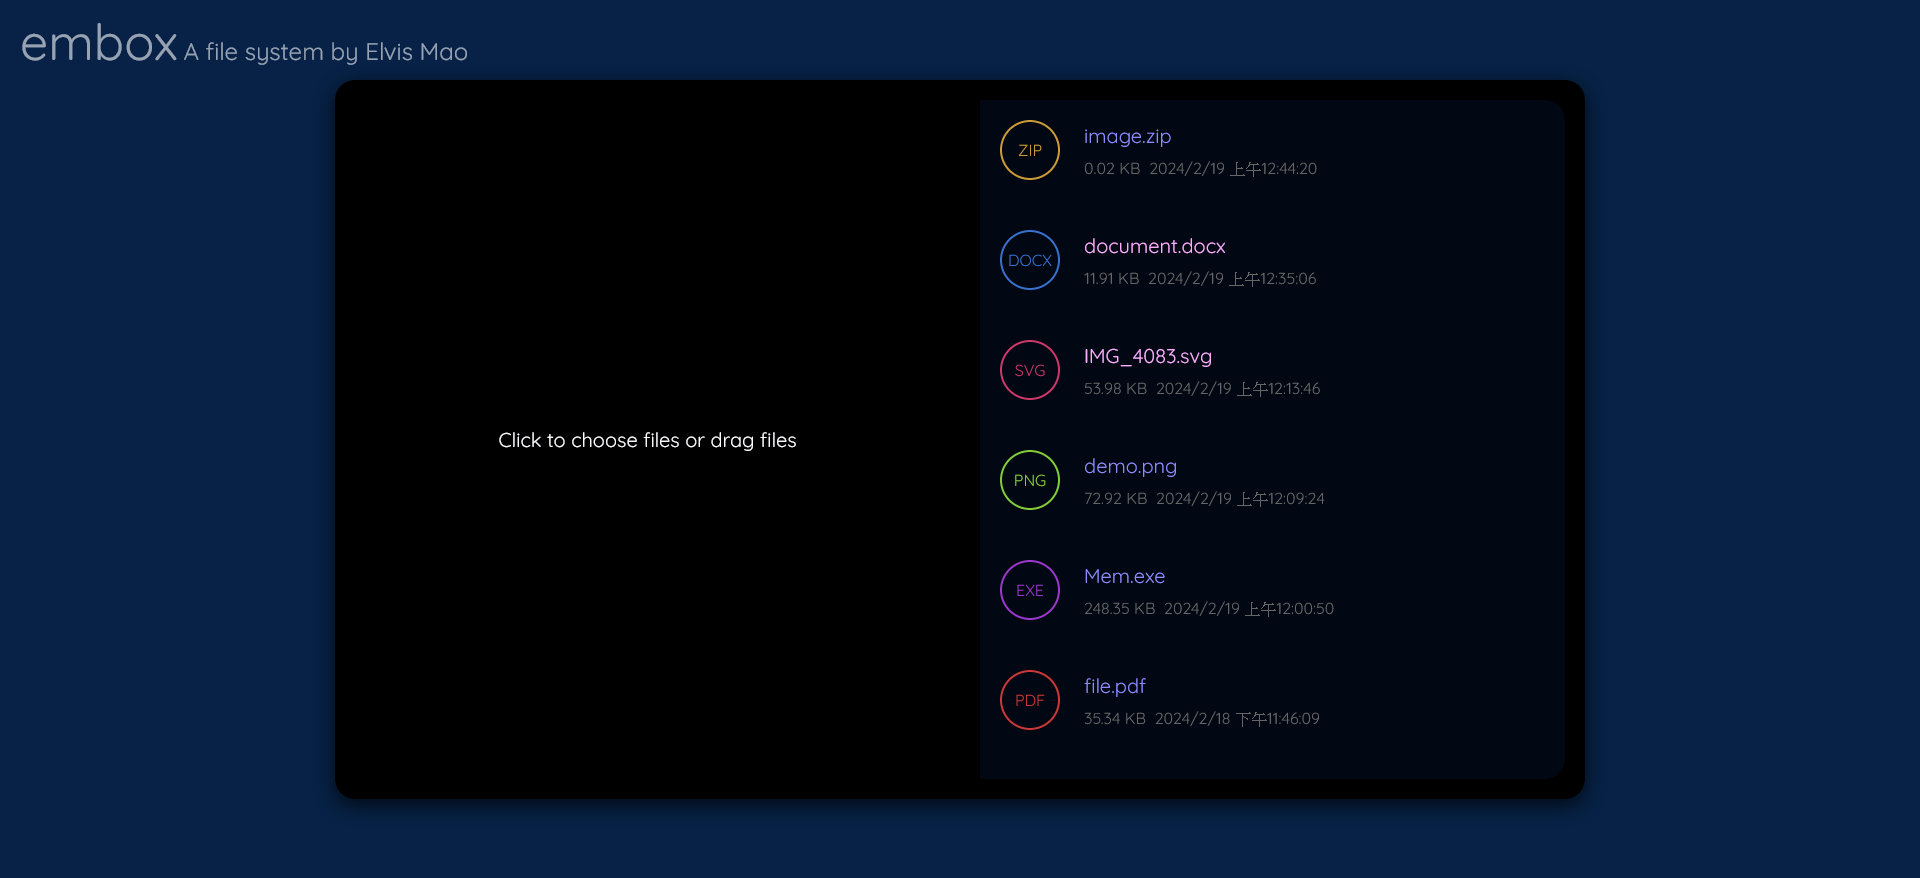
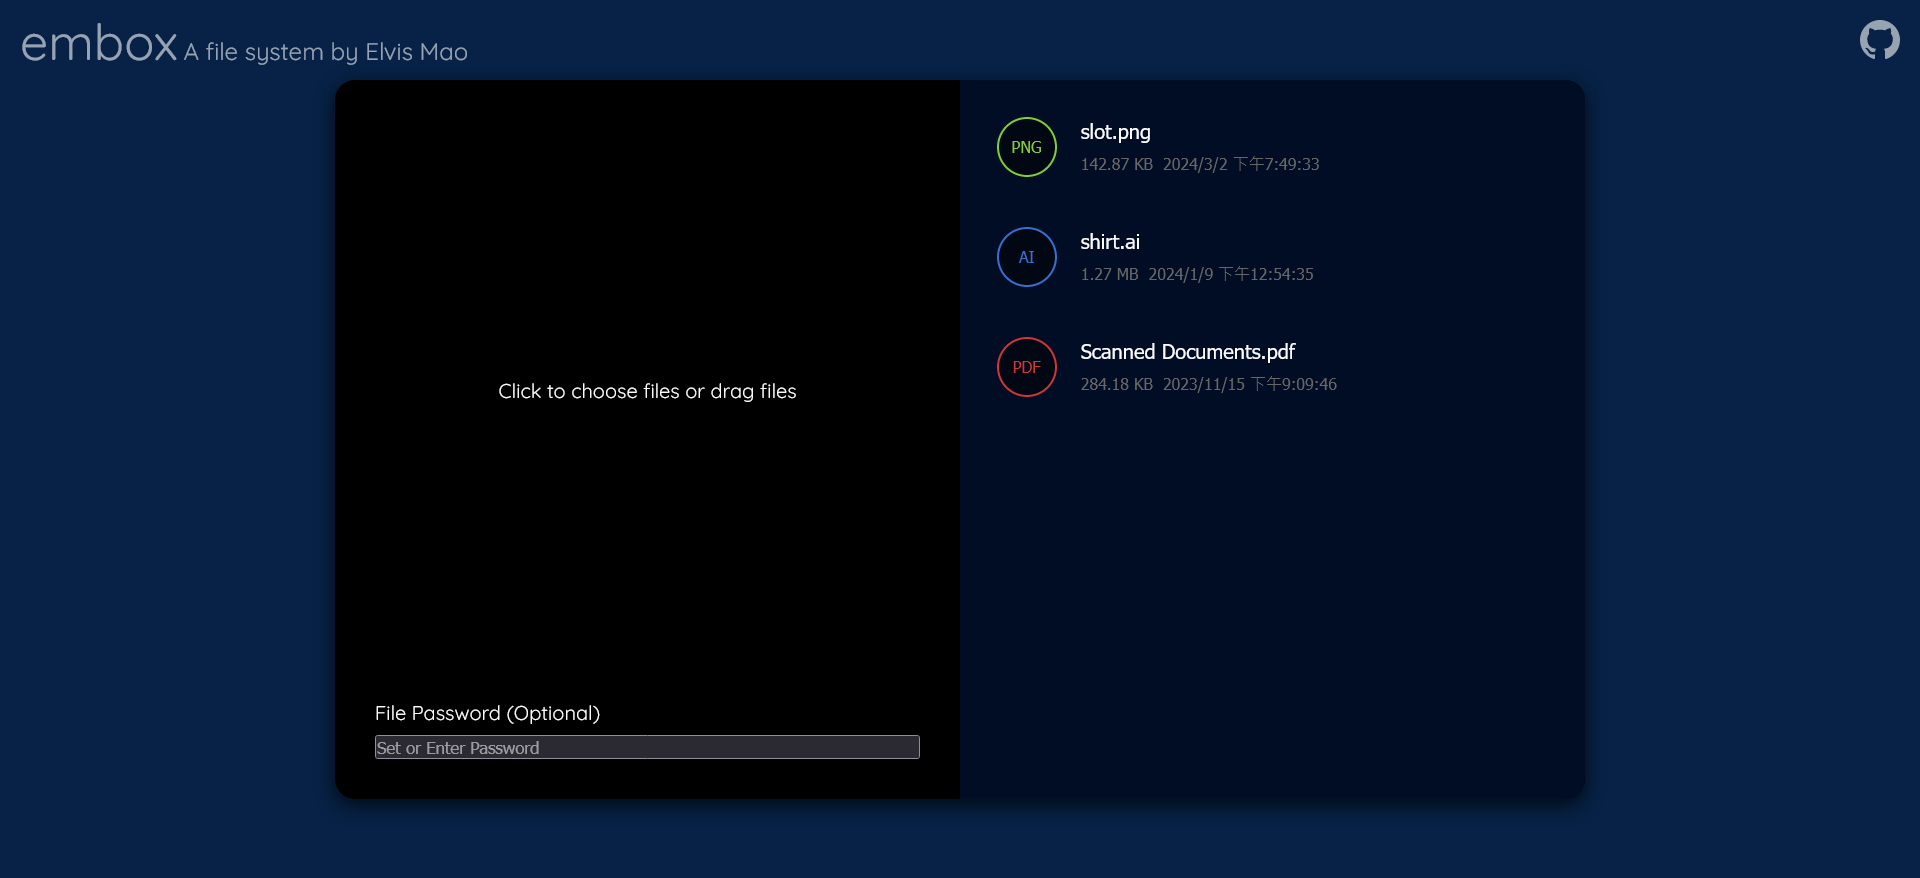
add XSS and path protection

diff --git a/public/index.html b/public/index.html
@@ -37,8 +37,11 @@
                 position: fixed;
                 top: 0.5em;
                 left: 1em;
-                color: #ffffff95;
+                color: light-dark(#FFF, #ffffff95);
                 z-index: -1;
+            }
+            header svg{
+                fill: light-dark(#00000095, #ffffff95);
             }
             h1,
             h2 {
@@ -87,11 +90,10 @@
                 border-radius: 1em;
             }
             #fileList {
-                background: var(--light);
+                background: light-dark(#ecf3fe,#000d24);
                 border-radius: 0 1em 1em 0;
                 overflow-y: auto;
                 padding: 1em;
-                height: calc(100% - 2em);
             }
             .file {
                 display: flex;
@@ -103,9 +105,10 @@
                 border: none;
                 outline: transparent;
                 width: 100%;
+                background: transparent;
             }
             .file:hover {
-                background: light-dark(#f0f0f0, hsl(0, 0%, 16%));
+                background: light-dark( hsla(0, 0%, 0%, 0.074),#ffffff21);
             }
             button h3 {
                 margin-bottom: 0.5em;
@@ -113,6 +116,7 @@
                 font-weight: 400;
                 color: var(--dark);
                 word-wrap: break-word;
+                text-align: left;
             }
             .type {
                 background: var(--light);
@@ -211,6 +215,15 @@
             .setPassword {
                 padding: 1rem;
             }
+            .repo {
+                position: fixed;
+                top: 1em;
+                right: 1em;
+                z-index: 1;
+            }
+            .repo svg {
+                fill: light-dark(#00000095, #ffffff95);
+            }
             @media (max-aspect-ratio: 1/1) {
                 main {
                     flex-direction: column;
@@ -229,6 +242,11 @@
             <h1>embox</h1>
             <h2>A file system by Elvis Mao</h2>
         </header>
+        <a href="https://github.com/Edit-Mr/embox" class="repo" target="_blank">
+            <svg height="32" aria-hidden="true" viewBox="0 0 16 16" version="1.1" width="32" data-view-component="true">
+                <path d="M8 0c4.42 0 8 3.58 8 8a8.013 8.013 0 0 1-5.45 7.59c-.4.08-.55-.17-.55-.38 0-.27.01-1.13.01-2.2 0-.75-.25-1.23-.54-1.48 1.78-.2 3.65-.88 3.65-3.95 0-.88-.31-1.59-.82-2.15.08-.2.36-1.02-.08-2.12 0 0-.67-.22-2.2.82-.64-.18-1.32-.27-2-.27-.68 0-1.36.09-2 .27-1.53-1.03-2.2-.82-2.2-.82-.44 1.1-.16 1.92-.08 2.12-.51.56-.82 1.28-.82 2.15 0 3.06 1.86 3.75 3.64 3.95-.23.2-.44.55-.51 1.07-.46.21-1.61.55-2.33-.66-.15-.24-.6-.83-1.23-.82-.67.01-.27.38.01.53.34.19.73.9.82 1.13.16.45.68 1.31 2.69.94 0 .67.01 1.3.01 1.49 0 .21-.15.45-.55.38A7.995 7.995 0 0 1 0 8c0-4.42 3.58-8 8-8Z"></path>
+            </svg>
+        </a>
         <main>
             <form action="/upload" method="post" enctype="multipart/form-data">
                 <input type="file" name="file" id="file" multiple />
@@ -262,15 +280,21 @@
                     );
                     fileList.innerHTML = files
                         .map(
-                            file => `
-                                            <button class="file" onclick="dl('${
-                                                file.file
-                                            }')">
-                                    <div class="type ${file.extension}">${
-                                file.extension
-                            }</div>
+                            file => `<button class="file" onclick="dl('${
+                                file.file
+                            }')">
+                                    <div class="type ${file.extension
+                                        .replace(/</g, "&lt;")
+                                        .replace(
+                                            />/g,
+                                            "&gt;"
+                                        )}">${file.extension
+                                .replace(/</g, "&lt;")
+                                .replace(/>/g, "&gt;")}</div>
                                     <div class="text">
-                                        <h3>${file.file}</h3>
+                                        <h3>${file.file
+                                            .replace(/</g, "&lt;")
+                                            .replace(/>/g, "&gt;")}</h3>
                                         <p>${file.size}&nbsp;&nbsp;${new Date(
                                 file.uploadDate
                             ).toLocaleString()}</p>

diff --git a/index.js b/index.js
@@ -28,13 +28,22 @@ app.get("/box", (req, res) => {
         res.redirect("/");
         return;
     }
-    var password = require("./password.json")[file];
-    console.log(password);
-    if (password === undefined || req.query.password === password)
-        res.sendFile(path.join(__dirname, "box", file));
-    else {
-        console.log("wrong");
-        res.sendFile(path.join(__dirname + "/public/download.html"));
+    const normalizedFilePath = path.resolve(__dirname, "box", file);
+    const boxDirectory = path.resolve(__dirname, "box");
+    if (!normalizedFilePath.startsWith(boxDirectory)) {
+        res.status(403).send("What are you trying to do?");
+        return;
+    }
+    //check if file exist
+    if (!fs.existsSync(normalizedFilePath)) {
+        res.status(404).send("File not found.");
+        return;
+    }
+    var password = require("./password.json")[file.split("/").pop()];
+    if (password === undefined || req.query.password === password) {
+        res.sendFile(normalizedFilePath);
+    } else {
+        res.sendFile(path.resolve(__dirname, "public", "download.html"));
     }
 });
 
@@ -69,12 +78,12 @@ app.post("/upload", (req, res) => {
             req.files.forEach(file => {
                 passwordFile[file.originalname] = password;
             });
+            fs.writeFileSync(
+                "password.json",
+                JSON.stringify(passwordFile, null, 4),
+                "utf8"
+            );
         }
-        fs.writeFileSync(
-            "password.json",
-            JSON.stringify(passwordFile, null, 4),
-            "utf8"
-        );
         res.redirect("/");
     });
 });

diff --git a/public/download.html b/public/download.html
@@ -16,12 +16,13 @@
                 align-items: center;
                 height: 100vh;
                 background-color: light-dark(#2f80ec, hsl(214, 83%, 15%));
-                color: light-dark(#121212,#f5f5f5);
+                color: #f5f5f5;
                 flex-direction: column;
             }
         </style>
     </head>
-    <body><h1>embox</h1>
+    <body>
+        <h1>embox</h1>
         <script>
             var url = new URL(window.location.href);
             var filename = url.searchParams.get("file");
@@ -32,6 +33,10 @@
             var password = prompt(
                 "Please enter the password to download " + filename
             );
+            // if nothing enter redirect to home
+            if (!password) {
+                window.location.href = "/";
+            }
             fetch(`/box?file=${filename}&password=${password}`).then(
                 response => {
                     if (
@@ -48,7 +53,8 @@
                             a.href = url;
                             a.download = filename;
                             a.click();
-                            document.body.innerHTML = "<h1>下載成功！</h1>embox by Elvis Mao";
+                            document.body.innerHTML =
+                                "<h1>下載成功！</h1>embox by Elvis Mao";
                         });
                     }
                 }
